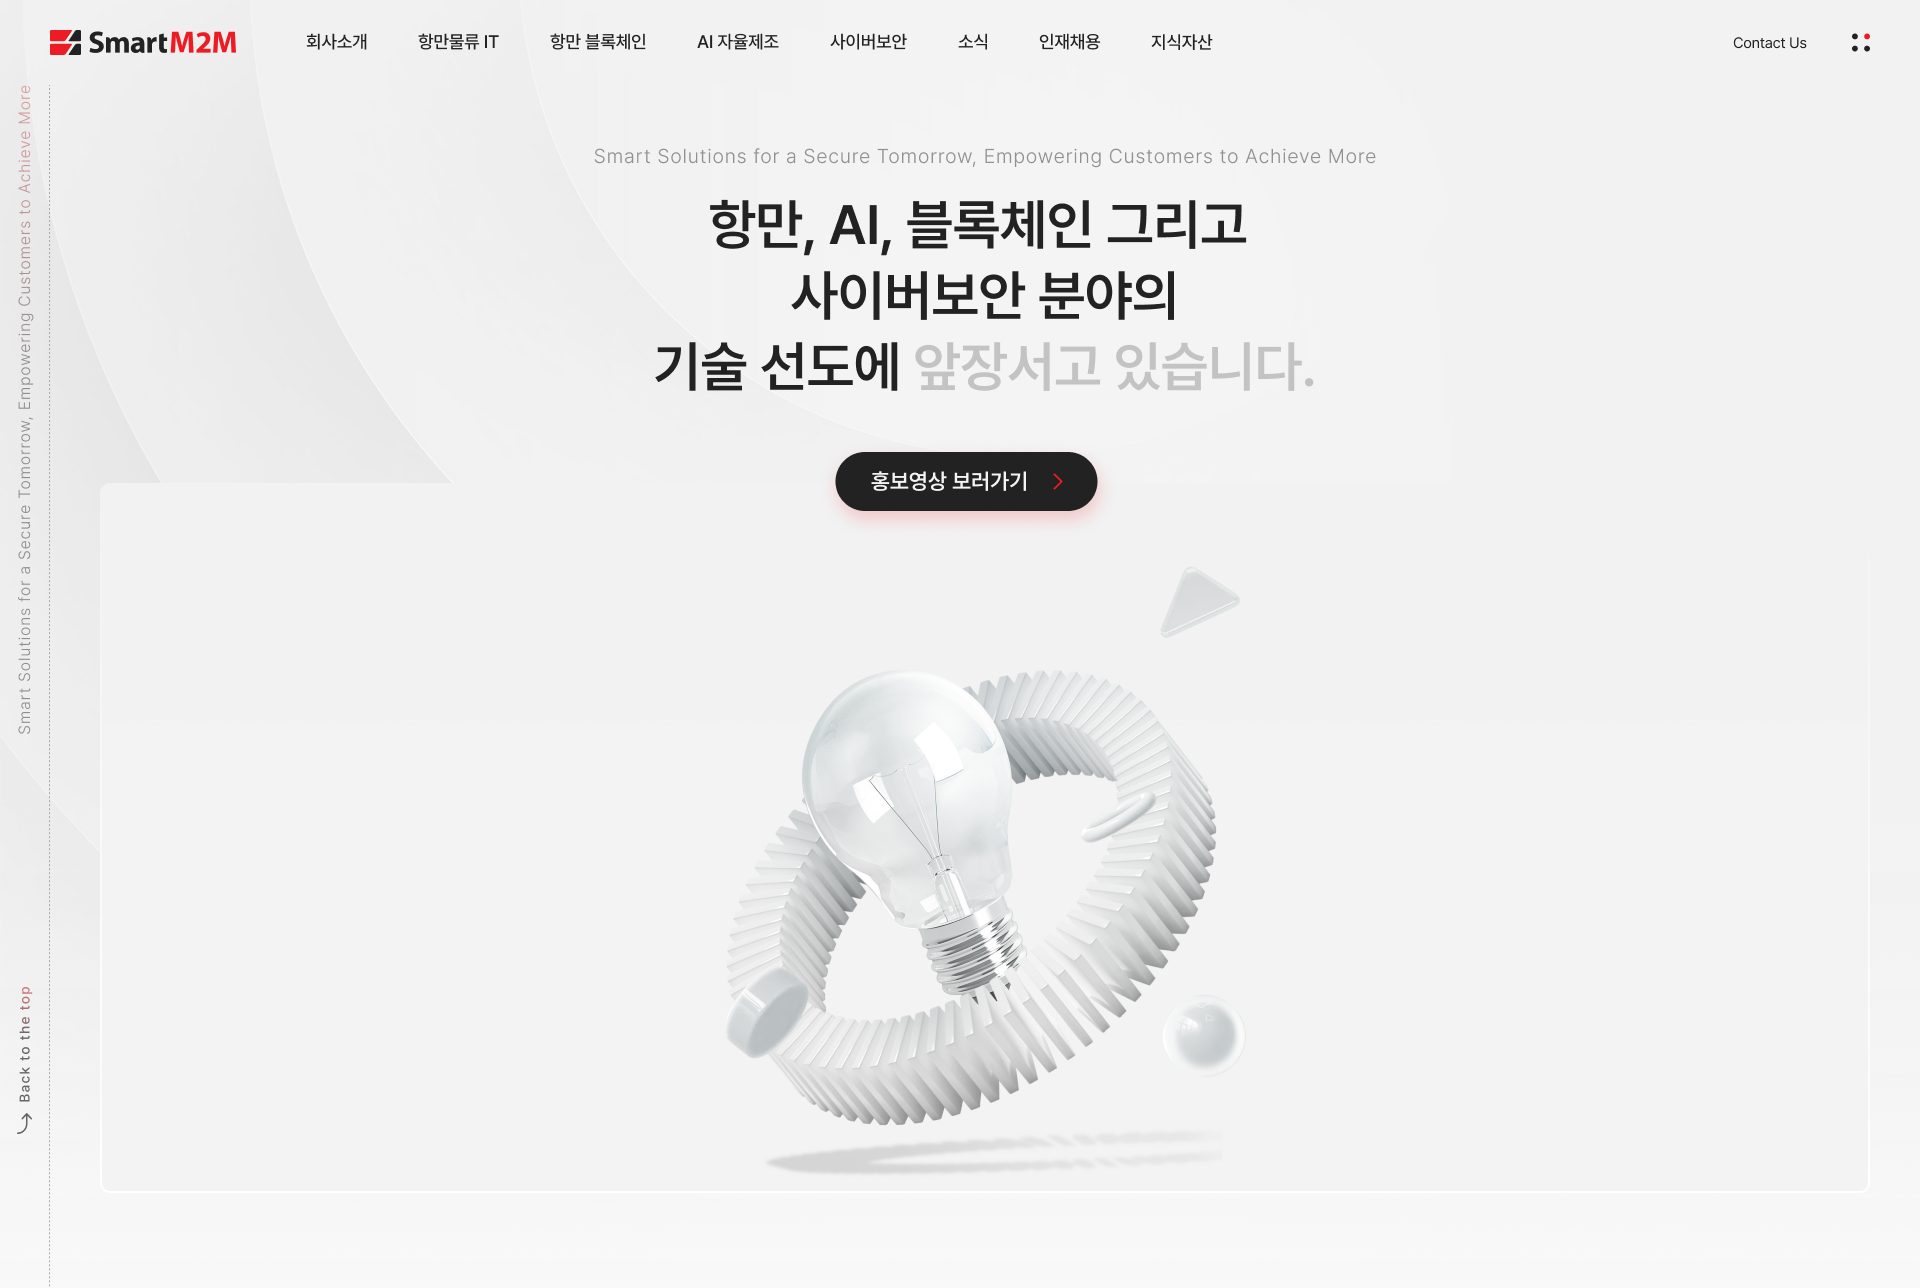
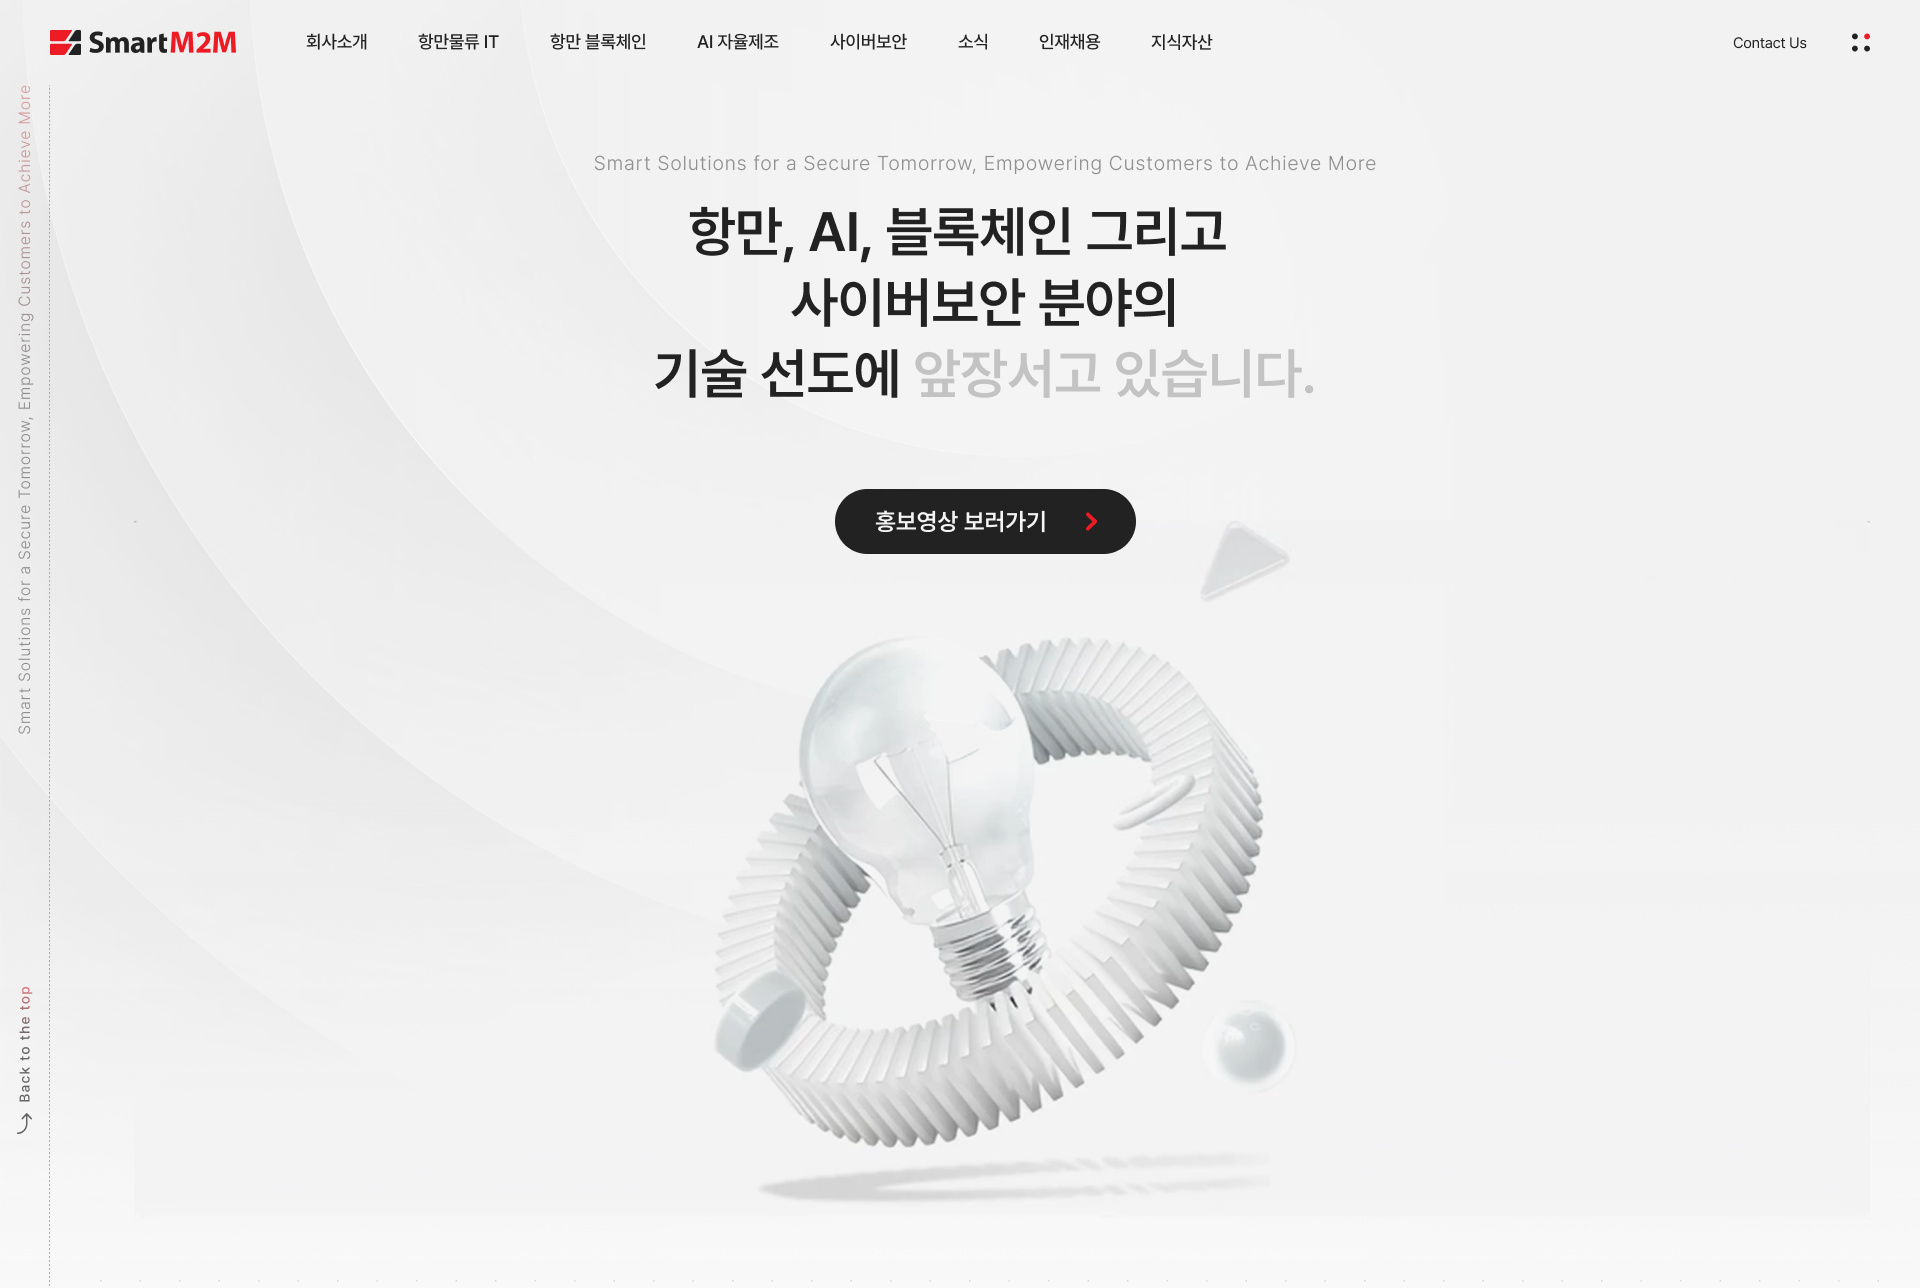
히어로 기준 화면과 영상 슬롯 반영

diff --git a/components/MainPage.module.css b/components/MainPage.module.css
@@ -36,6 +36,7 @@
 .heroReference {
   position: absolute;
   inset: 0;
+  z-index: 0;
   background-image: url("/assets/smartm2m/hero-reference-clean.png");
   background-position: top center;
   background-repeat: no-repeat;
@@ -53,6 +54,17 @@
   opacity: 0;
   animation: restoreHeroReference 0.28s ease forwards;
   animation-delay: 4.15s;
+}
+
+.heroVideo {
+  position: absolute;
+  inset: 0;
+  z-index: 1;
+  width: 100%;
+  height: 100%;
+  object-fit: cover;
+  mix-blend-mode: darken;
+  pointer-events: none;
 }
 
 .heroTextCover {
@@ -296,7 +308,7 @@
 
 @keyframes revealCharColor {
   to {
-    color: #111111;
+    color: #222222;
   }
 }
 
@@ -404,7 +416,7 @@
   }
 
   .revealChar {
-    color: #111111;
+    color: #222222;
     animation: none;
   }
 

diff --git a/components/MainPage.tsx b/components/MainPage.tsx
@@ -313,6 +313,16 @@ export function MainPage() {
       <CursorFollower />
       <section className={styles.hero} aria-label="메인 히어로">
         <div className={styles.heroReference} aria-hidden="true" />
+        <video
+          className={styles.heroVideo}
+          src="/assets/smartm2m/hero-video.mp4"
+          autoPlay
+          muted
+          loop
+          playsInline
+          preload="metadata"
+          aria-hidden="true"
+        />
         <motion.div
           className={styles.heroTextCover}
           initial={reduceMotion ? false : { opacity: 0 }}

diff --git a/checklist.md b/checklist.md
@@ -37,3 +37,7 @@
 - [x] Verify the updated page with build and local visual capture.
 - [x] Compare the history section against the current Figma reference.
 - [x] Update the history section asset or placement to match Figma.
+- [x] Compare only the hero section against the latest Figma reference.
+- [x] Add a replaceable hero video layer with darken blend mode.
+- [x] Verify hero typography color and weight against Figma.
+- [x] Build, push to GitHub, and deploy to Vercel.

diff --git a/context-notes.md b/context-notes.md
@@ -24,3 +24,5 @@
 - 2026-06-23: User requested another visual similarity pass against Figma node `1441:5486` and specifically wants the start of the interactive core-results section to follow Figma node `1431:19835`.
 - 2026-06-23: User reported the history section does not appear to be reflected. Next pass should compare the current history section with Figma and update only the history portion unless a shared section offset is the cause.
 - 2026-06-23: The current Figma history section is a fully expanded long history list, not the older folded accordion asset. Recreated `history-reference.png` from the Figma full-page screenshot at 1920x2082 and updated the history section aspect ratio accordingly.
+- 2026-06-25: User narrowed the next publishing pass to the hero section only. The current typing interaction should remain, but hero font weight/color should be checked against Figma and a replaceable video layer should be added with darken blend mode.
+- 2026-06-25: Latest Figma node `1441:5486` was downloaded at 1920px width. Existing `hero-reference.png` compared at 97.5420%, so the final hero reference image was refreshed from the latest Figma hero crop. The replaceable video slot is `/assets/smartm2m/hero-video.mp4`, rendered as a darken blend layer above the reference image and below the typing text.

diff --git a/image-assets.md b/image-assets.md
@@ -8,6 +8,7 @@
 | --- | ---: | --- | --- |
 | `public/assets/smartm2m/hero-reference.png` | 1920x1288 | 히어로 전체 | GNB, 좌측 레일, 히어로 배경, 오브젝트 기준 화면 |
 | `public/assets/smartm2m/hero-reference-clean.png` | 1920x1288 | 히어로 reveal 시작 상태 | 히어로 타이틀 텍스트가 제거된 reveal 전용 배경 |
+| `public/assets/smartm2m/hero-video.mp4` | 1920x1288 권장 | 히어로 영상 교체 슬롯 | 같은 파일명으로 업로드하면 `/assets/smartm2m/hero-video.mp4`에서 darken 블렌드로 재생 |
 | `public/assets/smartm2m/technical-reference.png` | 1920x1372 | 기술력 섹션 전체 | 기술력 배경과 화면/텍스트 기준 |
 | `public/assets/smartm2m/result-reference.png` | 1920x1550 | 핵심성과 섹션 전체 | 성과 카드, 로고, 배경 기준 |
 | `public/assets/smartm2m/history-reference.png` | 1920x2082 | 연혁 섹션 전체 | Figma 기준 전체 연혁 리스트 |